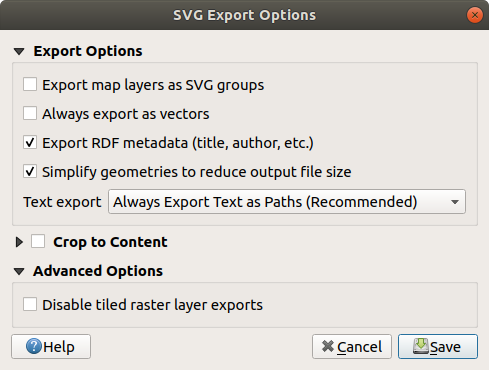
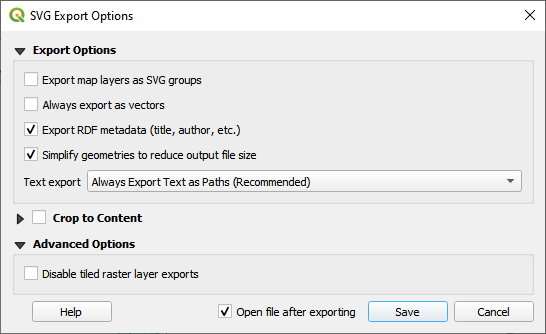
Auto-open exported layouts added

diff --git a/docs/user_manual/print_composer/create_output.rst b/docs/user_manual/print_composer/create_output.rst
@@ -114,13 +114,16 @@ To export a layout as an image:
 
      The :guilabel:`Crop to content` dialog also lets you add margins around
      the cropped bounds.
+  
+   * By checking |checkbox| :guilabel:`Open file after exporting` the exported 
+     file will automatically open in the default image viewer. 
 
 .. _figure_layout_output_image:
 
 .. figure:: img/image_export_options.png
    :align: center
 
-   Image Export Options, output is resized to items extent
+   Image Export Options
 
 .. tip::
    **Use image formats that support transparency when items extend
@@ -186,6 +189,8 @@ To export a layout as SVG:
      Sometimes, this can cause visible "seams" in the rasters
      for generated files. Checking this option would fix that, at the cost of a
      higher memory usage during exports.
+   * By checking |checkbox| :guilabel:`Open file after exporting` the exported 
+     file will automatically open in the default SVG viewer. 
 
 .. _figure_layout_output_svg:
 
@@ -253,6 +258,8 @@ To export a layout as PDF:
      than ``1/600 inch`` apart will be removed).
      This can reduce the size and complexity of the export file (very large
      files can fail to load in other applications).
+   * By checking |checkbox| :guilabel:`Open file after exporting` the exported 
+     file will automatically open in the default PDF viewer.
 
 
 .. _figure_layout_output_pdf:
